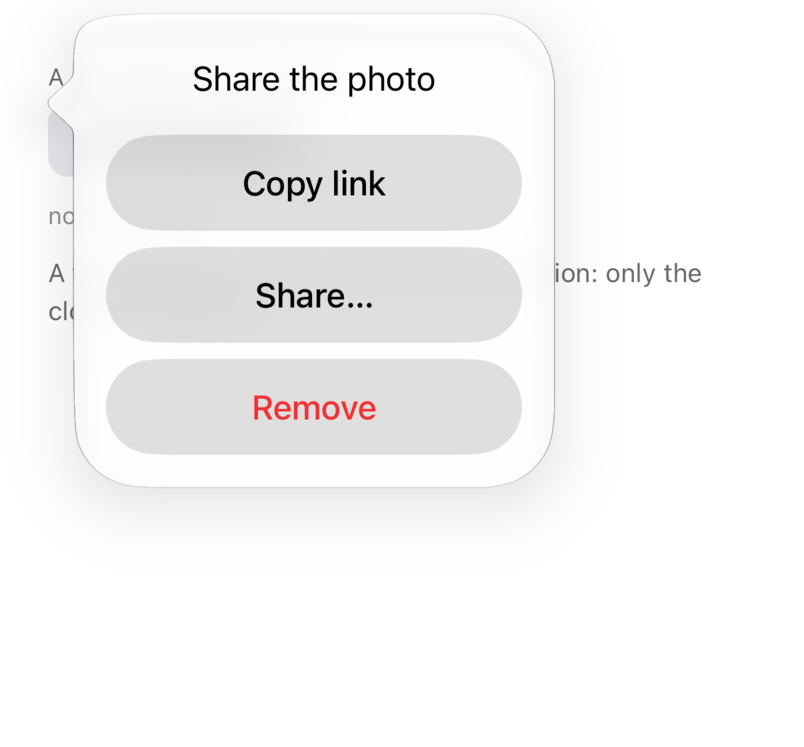
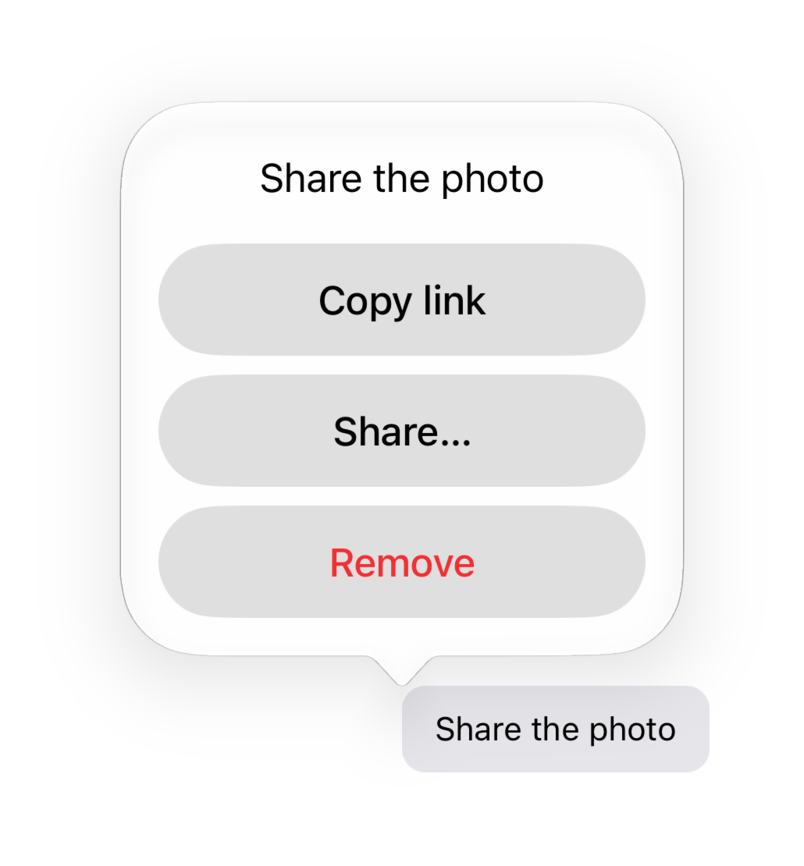
docs(readme): retake the iOS confirmation screenshot on a clean page
The old crop was the Confirmation story: page copy half-covered by the popover,
the trigger behind the card, and a blank bottom third. The picture is now
Dialog/Confirmation Plain - the popover, the button its arrow points at, even
margins, 804 px wide - and the alt text says popover rather than action sheet.

diff --git a/README.md b/README.md
@@ -434,7 +434,7 @@ A confirmation, presented — UIKit's action sheet on the left, Material's botto
 <table>
   <tr><th>iOS</th><th>Android</th></tr>
   <tr>
-    <td><img src="docs/images/components/confirmation-dialog-ios.png" width="300" alt="ConfirmationDialog presented on iOS as an action sheet: a title and three rows, the last one destructive" /></td>
+    <td><img src="docs/images/components/confirmation-dialog-ios.png" width="300" alt="ConfirmationDialog presented on iOS as a popover over its button: a title and three rows, the last one destructive" /></td>
     <td><img src="docs/images/components/confirmation-dialog-android.png" width="300" alt="ConfirmationDialog presented on Android as a bottom sheet with one row per action" /></td>
   </tr>
 </table>
